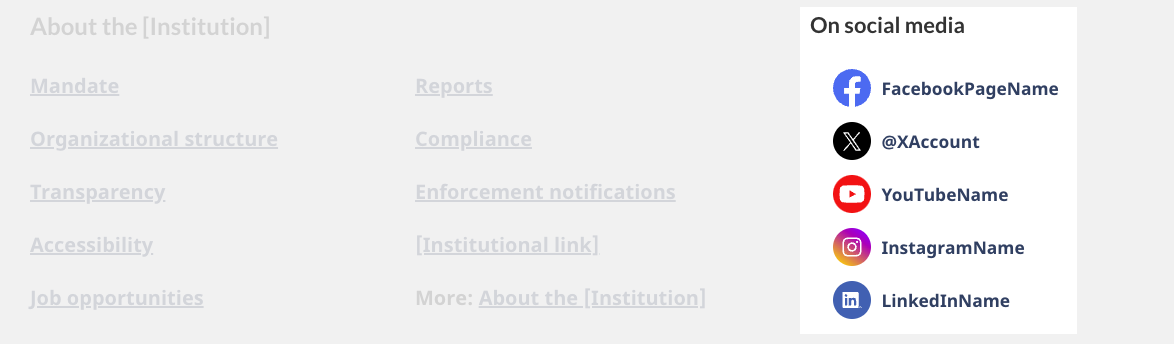
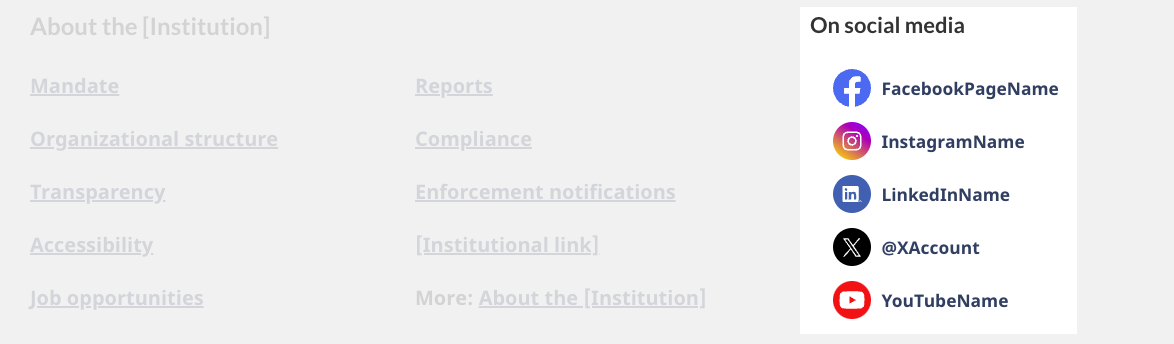
deploy: 8147b9d21c23cad0ad9256afe23c482fa7c9d486

diff --git a/common-design-patterns/social-media-channels.html b/common-design-patterns/social-media-channels.html
@@ -18,7 +18,7 @@
 		<meta name="dcterms.accessRights" content="2" />
 		<meta name="gcaaterms.sitename" content="ESDC-EDSC_CanadacaDesign-ConceptionCanadaca" />
 		<meta name="dcterms.issued" title="W3CDTF" content=""/>
-		<meta name="dcterms.modified" title="W3CDTF" content="2025-05-15"/>
+		<meta name="dcterms.modified" title="W3CDTF" content="2026-01-30"/>
 		<meta name="generator" content="Jekyll v4.3.2" />
 		<meta name="google-site-verification" content="Nt_CftRIypA9xVS7Znb2VkrsYbtIDuFWHryxSAC6OwM" />
 		<meta name="yandex-verification" content="b8834a99b9021b0e" />
@@ -176,7 +176,7 @@
 				<span>Social media channels</span>: <span>Canada.ca design</span>
 			</span>
 		</h1><!-- Custom code ends here -->
-		<p><strong>Last updated</strong>: 2025-05-15</p>
+		<p><strong>Last updated</strong>: 2026-01-30</p>
 <p>The social media channels pattern provides links to official Government of Canada (GC) social media accounts.</p>
 <div class="pattern-demo mrgn-tp-lg mrgn-bttm-xl"><img src="../images/social-media-vertical-mask-en.png" class="img-responsive" alt="" /></div>
 <section>
@@ -210,14 +210,14 @@
     <h3>Content specifications</h3>
     <p>The social media channels pattern is made up of the heading “On social media” and icons linking to official GC social media accounts.</p>
     <p>Accounts referred to in the pattern must be fully compliant with the <a href="https://www.tbs-sct.canada.ca/pol/doc-eng.aspx?id=30682">Directive on the Management of Communications</a>.</p>
+    <p>You can use social media icons other than those provided in this pattern, as long as they represent official GC social media accounts.</p>
+    <p>The order of social media icons isn’t prescribed. You can arrange them in any order that makes sense for your context.</p>
     <p>Display a maximum of 5 icons aligned in a vertical column or horizontal row:</p>
     <ul>
         <li>Vertical display includes a label next to each icon</li>
         <li>Horizontal display only includes the icons</li>
     </ul>
-    <h4>Optional link</h4>
-    <p>You can add a link with the label “More ways to connect” if you want to link to additional social media accounts or other departmental communications platforms (ie. podcasts, external magazine, etc.). The link should point to a page that lists all your social media accounts and additional ways to connect with/follow the department.</p>
-    <p>If there is more than one account from a platform:</p>
+     <p>If there is more than one account from a platform:</p>
     <ul>
         <li>Include the platform name next to its icon (vertical only)</li>
         <li>
@@ -229,6 +229,8 @@
         </li>
     </ul>
     <p>Place the social media channels after task and navigation content.</p>
+    <h4>Optional link</h4>
+    <p>You can add a link with the label “More ways to connect” if you want to link to additional social media accounts or other departmental communications platforms (ie. podcasts, external magazine, etc.). The link should point to a page that lists all your social media accounts and additional ways to connect with/follow the department.</p>
     <h3>Design specifications</h3>
     <ul>
         <li>
@@ -280,6 +282,26 @@
                             </div>
                             </td>
                         </tr>
+                          <tr>
+                            <td>Instagram</td>
+                            <td>instagram</td>
+                            <td class="text-center"><div class="provisional gc-followus">
+                            <ul class="list-inline">
+                                <li><a href="https://github.com/wet-boew/GCWeb/blob/master/components/gc-follow-us/assets/instagram.svg" class="instagram"><span class="wb-inv">Instagram</span></a></li>
+                            </ul>
+                            </div>
+                        </td>
+                        </tr>
+                        <tr>
+                            <td>LinkedIn</td>
+                            <td><p>linkedin</p></td>
+                            <td class="text-center"><div class="provisional gc-followus">
+                                <ul class="list-inline">
+                                    <li><a href="https://github.com/wet-boew/GCWeb/blob/master/components/gc-follow-us/assets/linkedin.svg" class="linkedin"><span class="wb-inv">LinkedIn</span></a></li>
+                                </ul>
+                            </div>
+                            </td>
+                        </tr>
                         <tr>
                             <td>X</td>
                             <td><p>twitter</p></td>
@@ -302,26 +324,6 @@
                             </div>
                             </td>
                         </tr>
-                        <tr>
-                            <td>Instagram</td>
-                            <td>instagram</td>
-                            <td class="text-center"><div class="provisional gc-followus">
-                            <ul class="list-inline">
-                                <li><a href="https://github.com/wet-boew/GCWeb/blob/master/components/gc-follow-us/assets/instagram.svg" class="instagram"><span class="wb-inv">Instagram</span></a></li>
-                            </ul>
-                            </div>
-                        </td>
-                        </tr>
-                        <tr>
-                            <td>LinkedIn</td>
-                            <td><p>linkedin</p></td>
-                            <td class="text-center"><div class="provisional gc-followus">
-                                <ul class="list-inline">
-                                    <li><a href="https://github.com/wet-boew/GCWeb/blob/master/components/gc-follow-us/assets/linkedin.svg" class="linkedin"><span class="wb-inv">LinkedIn</span></a></li>
-                                </ul>
-                            </div>
-                            </td>
-                        </tr>
                     </tbody>
                 </table>
             </div>
@@ -337,10 +339,10 @@
                 <p>Social media channel links appear in a section with the heading “On social media”. Below the heading is a vertical list with associated icons and labels:</p>
                 <ul>
                     <li>Facebook icon followed by the placeholder text FacebookPageName</li>
-                    <li>X icon followed by the placeholder text @XAccount</li>
-                    <li>Youtube icon followed by the placeholder text YouTubeName</li>
                     <li>Instagram icon followed by the placeholder text InstagramName</li>
                     <li>LinkedIn icon followed by the placeholder text LinkedInName</li>
+                    <li>X icon followed by the placeholder text @XAccount</li>
+                    <li>Youtube icon followed by the placeholder text YouTubeName</li>
                 </ul>
             </details>
         </figure>
@@ -354,10 +356,10 @@
                 <p>Social media channel links appear in a section with the heading “On social media”. Below the heading is a horizontal list with associated icons, but without labels:</p>
                 <ul>
                     <li>Facebook</li>
-                    <li>X</li>
-                    <li>Youtube</li>
                     <li>Instagram</li>
                     <li>LinkedIn</li>
+                    <li>X</li>
+                    <li>Youtube</li>
                 </ul>
             </details>
         </figure>
@@ -371,10 +373,10 @@
                 <p>Social media channel links appear in a section with the heading “On social media”. Below the heading is a vertical list with associated icons and labels:</p>
                 <ul>
                     <li>Facebook icon followed by the placeholder text FacebookPageName</li>
-                    <li>X icon followed by the placeholder text @XAccount</li>
-                    <li>Youtube icon followed by the placeholder text YouTubeName</li>
                     <li>Instagram icon followed by the placeholder text InstagramName</li>
                     <li>LinkedIn icon followed by the placeholder text LinkedInName</li>
+                    <li>X icon followed by the placeholder text @XAccount</li>
+                    <li>Youtube icon followed by the placeholder text YouTubeName</li>
                 </ul>
               <p>Below the icons is a link with the label: More ways to connect</p>
             </details>
@@ -389,10 +391,10 @@
                 <p>Social media channel links appear in a section with the heading “On social media”. Below the heading is a horizontal list with associated icons:</p>
                 <ul>
                     <li>Facebook icon</li>
-                    <li>X icon</li>
-                    <li>Youtube icon</li>
                     <li>Instagram icon</li>
                     <li>LinkedIn icon</li>
+                    <li>X icon</li>
+                    <li>Youtube icon</li>
                 </ul>
                 <p>Below the icons is a link with the label: More ways to connect</p>
             </details>
@@ -468,6 +470,8 @@
 <section>
     <h2 id="latest">Latest changes</h2>
     <dl class="dl-horizontal">
+    <dt><time>2026-01-30</time></dt>
+      <dd>Updated the guidance to clarify that other social media icons can be used and that icons can be rearranged.</dd>
       <dt><time>2025-05-15</time></dt>
       <dd>Updated typography specifications in tandem with alignment activities for GCWeb and GC Design System.</dd>
       <dt><time>2024-09-19</time></dt>
@@ -490,7 +494,7 @@
 		</div>
 	</div><dl id="wb-dtmd">
 	<dt>Date modified:</dt>
-	<dd><time property="dateModified">2025-05-15</time></dd>
+	<dd><time property="dateModified">2026-01-30</time></dd>
 </dl>
 </section>
 

diff --git a/about/latest-changes.html b/about/latest-changes.html
@@ -18,7 +18,7 @@
 		<meta name="dcterms.accessRights" content="2" />
 		<meta name="gcaaterms.sitename" content="ESDC-EDSC_CanadacaDesign-ConceptionCanadaca" />
 		<meta name="dcterms.issued" title="W3CDTF" content="2017-10-05"/>
-		<meta name="dcterms.modified" title="W3CDTF" content="2025-12-18"/>
+		<meta name="dcterms.modified" title="W3CDTF" content="2026-01-30"/>
 		<meta name="generator" content="Jekyll v4.3.2" />
 		<meta name="google-site-verification" content="Nt_CftRIypA9xVS7Znb2VkrsYbtIDuFWHryxSAC6OwM" />
 		<meta name="yandex-verification" content="b8834a99b9021b0e" />
@@ -174,6 +174,10 @@
   <button type="button" class="btn btn-default wb-toggle" data-toggle="{&quot;selector&quot;: &quot;details&quot;, &quot;parent&quot;: &quot;#expand-collapse&quot;, &quot;type&quot;: &quot;off&quot;}">Collapse all</button>
 </div>
 <div id="expand-collapse">
+<details open="open">
+    <summary><time datetime="2026-01-30">January 30, 2026</time></summary>
+    <p>Updated the social media channels guidance to clarify that other social media icons can be used and that icons can be rearranged.</p>
+  </details>
   <details>
     <summary><time datetime="2025-12-18">December 18, 2025</time></summary>
     <p>Added an alert to the basic page layout to indicate that it is being decommissioned and to instead follow the the GC Design System <a href="https://design-system.alpha.canada.ca/en/page-templates/basic/">Basic page template</a>.</p>
@@ -491,7 +495,7 @@
 		</div>
 	</div><dl id="wb-dtmd">
 	<dt>Date modified:</dt>
-	<dd><time property="dateModified">2025-12-18</time></dd>
+	<dd><time property="dateModified">2026-01-30</time></dd>
 </dl>
 </section>
 
